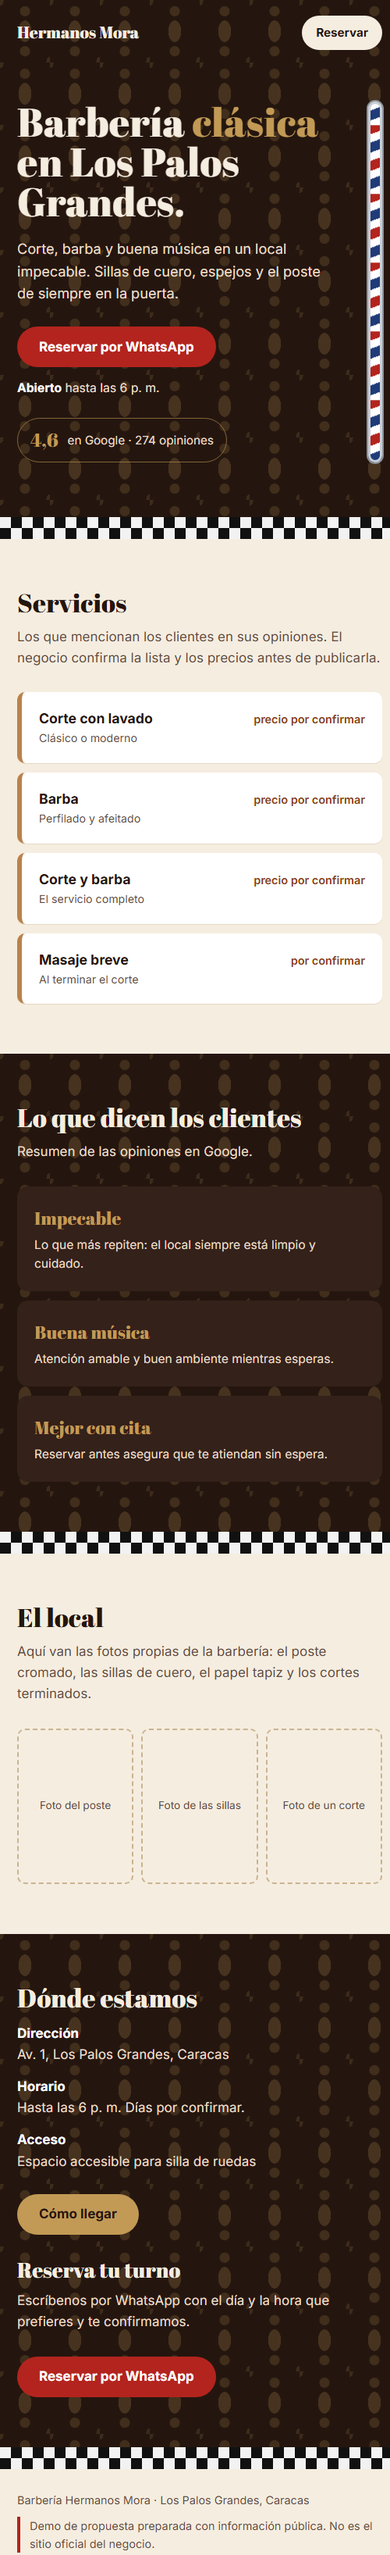
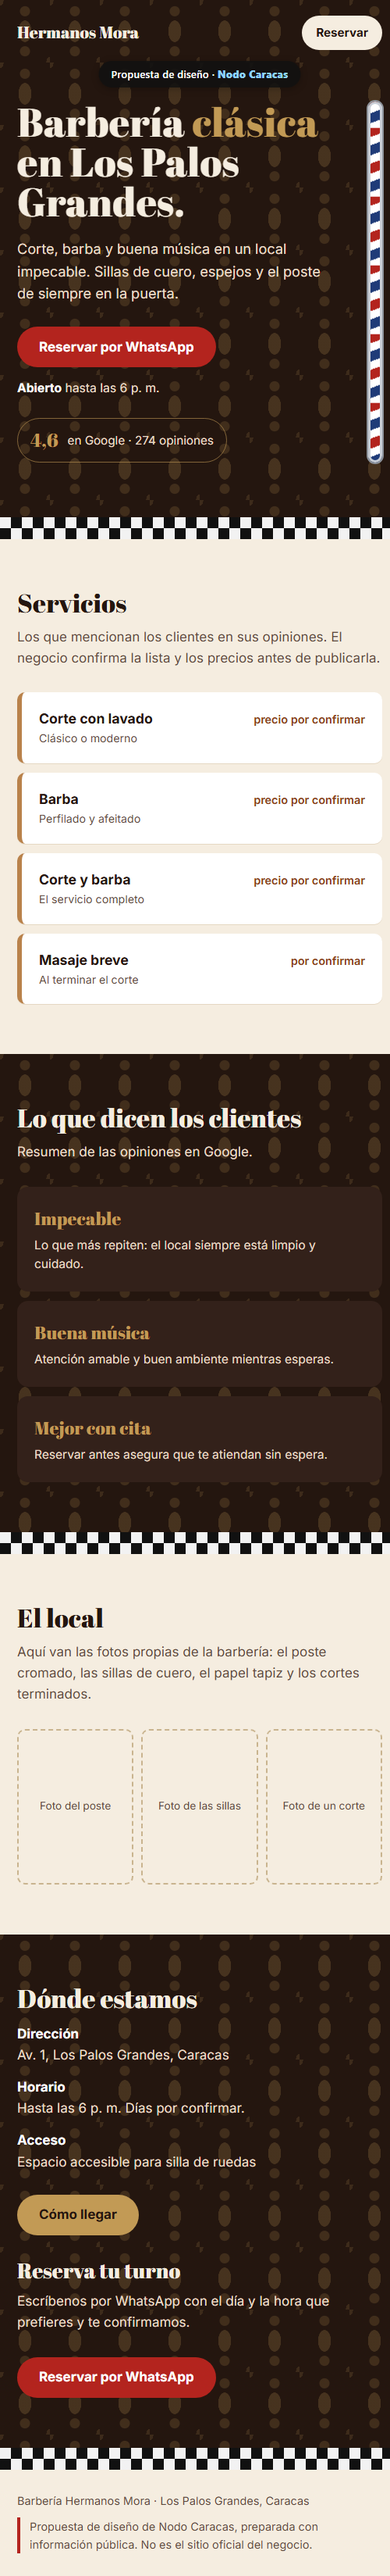
Marca Nodo Caracas en las demos, precios en el mensaje y acuerdo base

diff --git a/demos-web/restaurant-el-barquero/index.html b/demos-web/restaurant-el-barquero/index.html
@@ -63,6 +63,8 @@ dd{color:var(--suave)}
 .foto{aspect-ratio:1;border-radius:50% 50% 8px 8px;border:2px dashed var(--piedra2);background:rgba(255,255,255,.4);display:grid;place-items:center;text-align:center;color:var(--suave);font-size:.82rem;padding:10px}
 footer{padding:28px 0 40px;color:var(--suave);font-size:.9rem}
 .demo{margin-top:10px;border-left:4px solid var(--marino);padding-left:12px}
+.nodo-franja{position:fixed;left:50%;bottom:14px;transform:translateX(-50%);z-index:50;background:rgba(17,17,17,.88);color:#fff;font:600 13px/1.2 system-ui,sans-serif;letter-spacing:.02em;padding:9px 16px;border-radius:999px;box-shadow:0 2px 10px rgba(0,0,0,.25);pointer-events:none;white-space:nowrap}
+.nodo-franja b{color:#8FD3FF}
 </style>
 </head>
 <body>
@@ -149,10 +151,11 @@ footer{padding:28px 0 40px;color:var(--suave);font-size:.9rem}
 </main>
 <div class="mantel" aria-hidden="true"></div>
 
-<footer>
+<footer style="padding-bottom:70px">
   <div class="wrap">Restaurant El Barquero · Altamira, Caracas
-    <p class="demo">Demo de propuesta preparada con información pública. No es el sitio oficial del negocio.</p>
+    <p class="demo">Propuesta de diseño de Nodo Caracas, preparada con información pública. No es el sitio oficial del negocio.</p>
   </div>
 </footer>
+<div class="nodo-franja" aria-hidden="true">Propuesta de diseño · <b>Nodo Caracas</b></div>
 </body>
 </html>

diff --git a/demos-web/barberia-hermanos-mora/index.html b/demos-web/barberia-hermanos-mora/index.html
@@ -66,6 +66,8 @@ dd{color:#E9DCC8}
 .foto{aspect-ratio:3/4;border:2px dashed #C9B48F;border-radius:10px;display:grid;place-items:center;text-align:center;color:var(--suave);font-size:.85rem;padding:8px}
 footer{padding:28px 0 40px;color:var(--suave);font-size:.9rem}
 .demo{margin-top:10px;border-left:4px solid var(--rojo);padding-left:12px}
+.nodo-franja{position:fixed;left:50%;bottom:14px;transform:translateX(-50%);z-index:50;background:rgba(17,17,17,.88);color:#fff;font:600 13px/1.2 system-ui,sans-serif;letter-spacing:.02em;padding:9px 16px;border-radius:999px;box-shadow:0 2px 10px rgba(0,0,0,.25);pointer-events:none;white-space:nowrap}
+.nodo-franja b{color:#8FD3FF}
 </style>
 </head>
 <body>
@@ -147,10 +149,11 @@ footer{padding:28px 0 40px;color:var(--suave);font-size:.9rem}
 <div class="damero" aria-hidden="true"></div>
 </main>
 
-<footer>
+<footer style="padding-bottom:70px">
   <div class="wrap">Barbería Hermanos Mora · Los Palos Grandes, Caracas
-    <p class="demo">Demo de propuesta preparada con información pública. No es el sitio oficial del negocio.</p>
+    <p class="demo">Propuesta de diseño de Nodo Caracas, preparada con información pública. No es el sitio oficial del negocio.</p>
   </div>
 </footer>
+<div class="nodo-franja" aria-hidden="true">Propuesta de diseño · <b>Nodo Caracas</b></div>
 </body>
 </html>

diff --git a/demos-web/entrega-hermanos-mora/demo.html b/demos-web/entrega-hermanos-mora/demo.html
@@ -66,6 +66,8 @@ dd{color:#E9DCC8}
 .foto{aspect-ratio:3/4;border:2px dashed #C9B48F;border-radius:10px;display:grid;place-items:center;text-align:center;color:var(--suave);font-size:.85rem;padding:8px}
 footer{padding:28px 0 40px;color:var(--suave);font-size:.9rem}
 .demo{margin-top:10px;border-left:4px solid var(--rojo);padding-left:12px}
+.nodo-franja{position:fixed;left:50%;bottom:14px;transform:translateX(-50%);z-index:50;background:rgba(17,17,17,.88);color:#fff;font:600 13px/1.2 system-ui,sans-serif;letter-spacing:.02em;padding:9px 16px;border-radius:999px;box-shadow:0 2px 10px rgba(0,0,0,.25);pointer-events:none;white-space:nowrap}
+.nodo-franja b{color:#8FD3FF}
 </style>
 </head>
 <body>
@@ -147,10 +149,11 @@ footer{padding:28px 0 40px;color:var(--suave);font-size:.9rem}
 <div class="damero" aria-hidden="true"></div>
 </main>
 
-<footer>
+<footer style="padding-bottom:70px">
   <div class="wrap">Barbería Hermanos Mora · Los Palos Grandes, Caracas
-    <p class="demo">Demo de propuesta preparada con información pública. No es el sitio oficial del negocio.</p>
+    <p class="demo">Propuesta de diseño de Nodo Caracas, preparada con información pública. No es el sitio oficial del negocio.</p>
   </div>
 </footer>
+<div class="nodo-franja" aria-hidden="true">Propuesta de diseño · <b>Nodo Caracas</b></div>
 </body>
 </html>

diff --git a/demos-web/bravos-barber-caracas/index.html b/demos-web/bravos-barber-caracas/index.html
@@ -53,6 +53,8 @@ dt{font-weight:700;margin-top:14px;color:var(--oro2)}
 dd{color:#D3D6DA}
 footer{padding:28px 0 40px;color:var(--gris);font-size:.9rem;border-top:1px solid #222}
 .demo{margin-top:10px;border-left:4px solid var(--oro);padding-left:12px}
+.nodo-franja{position:fixed;left:50%;bottom:14px;transform:translateX(-50%);z-index:50;background:rgba(17,17,17,.88);color:#fff;font:600 13px/1.2 system-ui,sans-serif;letter-spacing:.02em;padding:9px 16px;border-radius:999px;box-shadow:0 2px 10px rgba(0,0,0,.25);pointer-events:none;white-space:nowrap}
+.nodo-franja b{color:#8FD3FF}
 </style>
 </head>
 <body>
@@ -126,10 +128,11 @@ footer{padding:28px 0 40px;color:var(--gris);font-size:.9rem;border-top:1px soli
 </section>
 </main>
 
-<footer>
+<footer style="padding-bottom:70px">
   <div class="wrap">Bravos Barber Studio · Centro Plaza, Caracas
-    <p class="demo">Demo de propuesta preparada con información pública. No es el sitio oficial del negocio.</p>
+    <p class="demo">Propuesta de diseño de Nodo Caracas, preparada con información pública. No es el sitio oficial del negocio.</p>
   </div>
 </footer>
+<div class="nodo-franja" aria-hidden="true">Propuesta de diseño · <b>Nodo Caracas</b></div>
 </body>
 </html>

diff --git a/demos-web/odontologia-gran-caracas/index.html b/demos-web/odontologia-gran-caracas/index.html
@@ -63,6 +63,8 @@ details p{color:var(--suave);margin-top:8px}
 .visita .acciones{justify-content:center}
 footer{padding:28px 0 40px;color:var(--suave);font-size:.88rem}
 .demo{margin-top:10px;border-left:4px solid var(--rey);padding-left:12px}
+.nodo-franja{position:fixed;left:50%;bottom:14px;transform:translateX(-50%);z-index:50;background:rgba(17,17,17,.88);color:#fff;font:600 13px/1.2 system-ui,sans-serif;letter-spacing:.02em;padding:9px 16px;border-radius:999px;box-shadow:0 2px 10px rgba(0,0,0,.25);pointer-events:none;white-space:nowrap}
+.nodo-franja b{color:#8FD3FF}
 </style>
 </head>
 <body>
@@ -136,10 +138,11 @@ footer{padding:28px 0 40px;color:var(--suave);font-size:.88rem}
 </section>
 </main>
 
-<footer>
+<footer style="padding-bottom:70px">
   <div class="wrap">Odontología Gran Caracas · Centro Perú, Caracas
-    <p class="demo">Demo de propuesta preparada con información pública. No es el sitio oficial del negocio.</p>
+    <p class="demo">Propuesta de diseño de Nodo Caracas, preparada con información pública. No es el sitio oficial del negocio.</p>
   </div>
 </footer>
+<div class="nodo-franja" aria-hidden="true">Propuesta de diseño · <b>Nodo Caracas</b></div>
 </body>
 </html>

diff --git a/demos-web/tonsor-barber-club/index.html b/demos-web/tonsor-barber-club/index.html
@@ -55,6 +55,8 @@ dt{font-weight:700;margin-top:14px}
 dd{color:#D9E1F6}
 footer{padding:28px 0 40px;color:var(--suave);font-size:.9rem}
 .demo{margin-top:10px;border-left:4px solid var(--cobalto);padding-left:12px}
+.nodo-franja{position:fixed;left:50%;bottom:14px;transform:translateX(-50%);z-index:50;background:rgba(17,17,17,.88);color:#fff;font:600 13px/1.2 system-ui,sans-serif;letter-spacing:.02em;padding:9px 16px;border-radius:999px;box-shadow:0 2px 10px rgba(0,0,0,.25);pointer-events:none;white-space:nowrap}
+.nodo-franja b{color:#8FD3FF}
 </style>
 </head>
 <body>
@@ -129,10 +131,11 @@ footer{padding:28px 0 40px;color:var(--suave);font-size:.9rem}
 </section>
 </main>
 
-<footer>
+<footer style="padding-bottom:70px">
   <div class="wrap">Tonsor Barber Club · Los Palos Grandes, Caracas
-    <p class="demo">Demo de propuesta preparada con información pública. No es el sitio oficial del negocio.</p>
+    <p class="demo">Propuesta de diseño de Nodo Caracas, preparada con información pública. No es el sitio oficial del negocio.</p>
   </div>
 </footer>
+<div class="nodo-franja" aria-hidden="true">Propuesta de diseño · <b>Nodo Caracas</b></div>
 </body>
 </html>

diff --git a/demos-web/la-flor-de-altamira/index.html b/demos-web/la-flor-de-altamira/index.html
@@ -55,6 +55,8 @@ dt{font-weight:700;margin-top:14px}
 dd{color:var(--suave)}
 footer{padding:28px 0 40px;color:var(--suave);font-size:.9rem}
 .demo{margin-top:10px;border-left:4px solid var(--oro);padding-left:12px}
+.nodo-franja{position:fixed;left:50%;bottom:14px;transform:translateX(-50%);z-index:50;background:rgba(17,17,17,.88);color:#fff;font:600 13px/1.2 system-ui,sans-serif;letter-spacing:.02em;padding:9px 16px;border-radius:999px;box-shadow:0 2px 10px rgba(0,0,0,.25);pointer-events:none;white-space:nowrap}
+.nodo-franja b{color:#8FD3FF}
 </style>
 </head>
 <body>
@@ -126,10 +128,11 @@ footer{padding:28px 0 40px;color:var(--suave);font-size:.9rem}
 </section>
 </main>
 
-<footer>
+<footer style="padding-bottom:70px">
   <div class="wrap">La Flor de Altamira · Altamira, Caracas
-    <p class="demo">Demo de propuesta preparada con información pública. No es el sitio oficial del negocio.</p>
+    <p class="demo">Propuesta de diseño de Nodo Caracas, preparada con información pública. No es el sitio oficial del negocio.</p>
   </div>
 </footer>
+<div class="nodo-franja" aria-hidden="true">Propuesta de diseño · <b>Nodo Caracas</b></div>
 </body>
 </html>

diff --git a/demos-web/acuerdo-base.md b/demos-web/acuerdo-base.md
@@ -1,0 +1,73 @@
+# Acuerdo de servicio: página web y plan mensual
+
+Plantilla de Nodo Caracas. Borrador para revisar con un abogado antes de usarlo. Lo que va entre corchetes se completa con cada cliente. No guardar en el repo la versión firmada ni los datos personales del cliente.
+
+---
+
+**Entre:** Nodo Caracas, representado por Fernando ("Nodo Caracas"), y [nombre del negocio], representado por [nombre del responsable] ("el Cliente").
+
+**Fecha:** [fecha]
+
+## 1. Qué se entrega
+
+- Una página web de una sola sección, adaptada a la identidad del Cliente, que funciona en teléfono y computadora.
+- Contenido: servicios o productos con precios, horario, ubicación con botón "cómo llegar", botón de WhatsApp y fotos que entregue el Cliente.
+- Hasta 2 rondas de cambios antes de publicar.
+- Plazo: [número] días después de recibir el anticipo y todo el material (lista de servicios y precios, horario, número de WhatsApp, fotos).
+
+## 2. Precio y pagos
+
+- Página: $130 (precio de lanzamiento).
+  - $65 de anticipo para empezar a personalizar.
+  - $65 al publicar la página.
+- Plan mensual: $20 al mes, desde el mes en que se publica. Se paga [primeros 5 días de cada mes].
+- Forma de pago: [método acordado].
+- Dominio: lo paga el Cliente (aproximadamente $10 a $15 al año, según el registrador).
+
+## 3. Qué incluye el plan mensual
+
+- Alojamiento de la página.
+- Hasta [número] cambios al mes de precios, horarios, textos o fotos, pedidos por WhatsApp. Respuesta en [número] días hábiles.
+- Revisión mensual de que todo funcione (botones, enlaces, carga en teléfono).
+- Copia de seguridad mensual.
+
+No incluye: secciones o páginas nuevas, tienda en línea, publicidad pagada ni gestión de redes sociales. Se cotizan aparte.
+
+## 4. Propiedad
+
+| Pieza | A nombre de |
+|---|---|
+| Dominio | El Cliente. Nodo Caracas lo administra mientras dure el plan. |
+| Textos, fotos, logo y marca | El Cliente. |
+| Diseño y código de la página | Nodo Caracas. El Cliente tiene licencia de uso mientras el plan esté al día. |
+| Alojamiento | Cuenta de Nodo Caracas, incluida en el plan. |
+
+## 5. Si el Cliente cancela el plan
+
+Aviso con [15] días de anticipación. El Cliente elige una de dos opciones:
+
+1. Comprar los archivos de la página por $[monto fijado desde ahora] y llevársela a donde quiera, o
+2. Se retira la página. El Cliente conserva su dominio, textos y fotos.
+
+Si el plan tiene más de [30] días de atraso, Nodo Caracas puede pausar la página hasta que se pague. El dominio nunca se retiene.
+
+## 6. Precio de lanzamiento
+
+A cambio del precio de lanzamiento, el Cliente autoriza a Nodo Caracas a:
+
+- mostrar la página como ejemplo de su trabajo, y
+- publicar una opinión breve del Cliente sobre el servicio (con su aprobación del texto).
+
+## 7. Responsabilidades
+
+- El Cliente entrega información veraz y es responsable de sus precios, productos y servicios.
+- Nodo Caracas no garantiza un número de clientes o ventas.
+- Nodo Caracas no publica nada a nombre del Cliente sin su aprobación.
+
+## Aceptación
+
+[Nombre del responsable], por [nombre del negocio]: ____________________
+
+Fernando, por Nodo Caracas: ____________________
+
+(También puede aceptarse por escrito en WhatsApp con el texto: "Acepto el acuerdo de servicio de Nodo Caracas del [fecha]".)

diff --git a/demos-web/entrega-hermanos-mora/mensaje.md b/demos-web/entrega-hermanos-mora/mensaje.md
@@ -5,13 +5,13 @@ Borrador para que Fernando lo apruebe. Nada se envía hasta que él lo diga, y l
 ## Antes de enviar
 
 1. Decidir cómo contactar: la ficha de Google Maps del negocio muestra un teléfono público. Fernando decide si lo usa. El teléfono no está en el repo.
-2. Completar los datos entre corchetes: [precio] y [tu forma de contacto].
+2. Precios ya definidos: $130 la página y $20 al mes el plan (ver `../modelo-de-venta.md`).
 3. Decidir si quiere decir que la página la preparó con ayuda de una IA. Recomendado: sí, en una línea (está en la versión corta).
 4. Mirar `vista-telefono.png` para confirmar que se ve como quiere enseñarla.
 
 ## Versión corta (WhatsApp)
 
-> Hola, buenas tardes. Soy Fernando. Vi que Barbería Hermanos Mora tiene muy buenas opiniones en Google (4,6 con 274) pero no aparece una página web.
+> Hola, buenas tardes. Soy Fernando, de Nodo Caracas: hacemos páginas web para negocios de la ciudad. Vi que Barbería Hermanos Mora tiene muy buenas opiniones en Google (4,6 con 274) pero no aparece una página web.
 >
 > Preparé un ejemplo de cómo podría verse la suya, con la información que ya es pública: ubicación, horario y botón para reservar por WhatsApp. Es solo una propuesta, sin compromiso. La armé con ayuda de una herramienta de inteligencia artificial y la reviso yo.
 >
@@ -40,7 +40,7 @@ Para tener el enlace, Fernando sube `demo.html` él mismo a un alojamiento gratu
 >
 > Para dejarla lista necesito: la lista de servicios con precios, los días y horas de atención, tu número de WhatsApp para reservas y unas cuantas fotos buenas.
 >
-> El costo sería [precio]. Te la entrego funcionando y te explico cómo cambiar lo que quieras.
+> El precio de lanzamiento es $130: $65 para empezar y $65 cuando la publiquemos. Después, $20 al mes cubren el alojamiento, los cambios de precios, horarios y fotos, y que todo siga funcionando. El dominio queda a tu nombre.
 
 ## Si no responde o dice que no
 

diff --git a/demos-web/modelo-de-venta.md b/demos-web/modelo-de-venta.md
@@ -68,6 +68,6 @@ A cambio del precio de lanzamiento se pide por escrito: permiso para mostrar la 
 
 Referencia de mercado (agencias en Venezuela, 2026): landing de $80 a $500, mantenimiento de pymes de $25 a $75 al mes.
 
-## Decisiones pendientes de Fernando
+## Nombre del servicio
 
-1. Nombre y dominio de su servicio para las demos y los enlaces (propuesta: Fachada Web, `fachadaweb.com`).
+Nodo Caracas. Dominio sugerido: `nodocaracas.com` (parecía libre el 2026-10-24; lo compra Fernando). Las demos llevan una franja fija "Propuesta de diseño · Nodo Caracas" y el aviso al pie.
